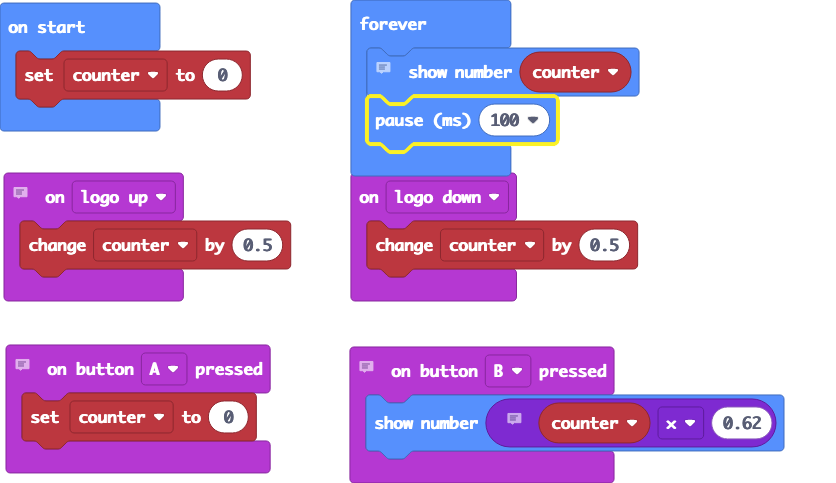
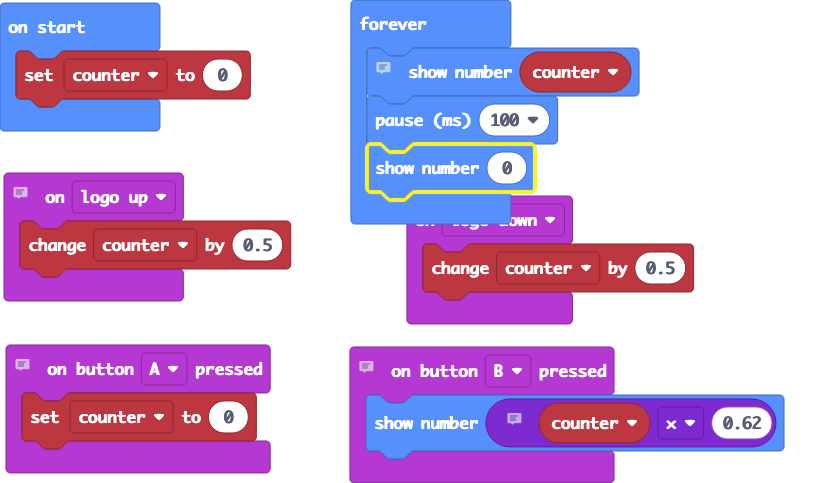
Update main.blocks, main.ts

Changed region(s): [[0.4043, 0.1863, 0.8397, 0.6832]]

diff --git a/main.ts b/main.ts
@@ -20,4 +20,5 @@ basic.forever(function () {
     // We will constantly display the number of revolutions counted
     basic.showNumber(counter)
     basic.pause(100)
+    basic.showNumber(0)
 })
